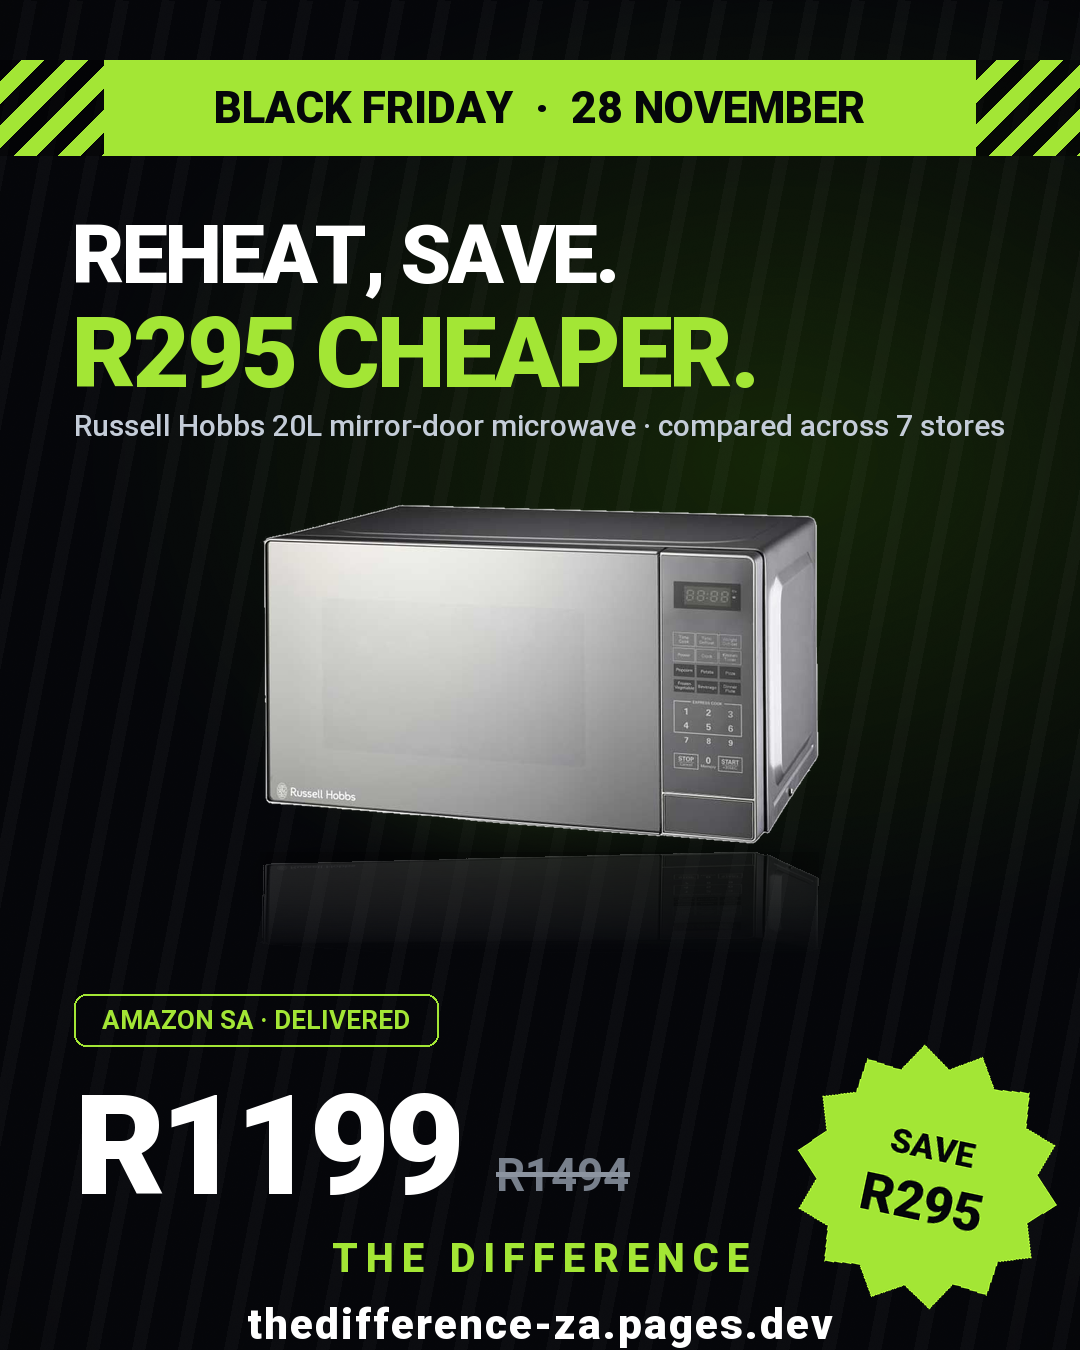
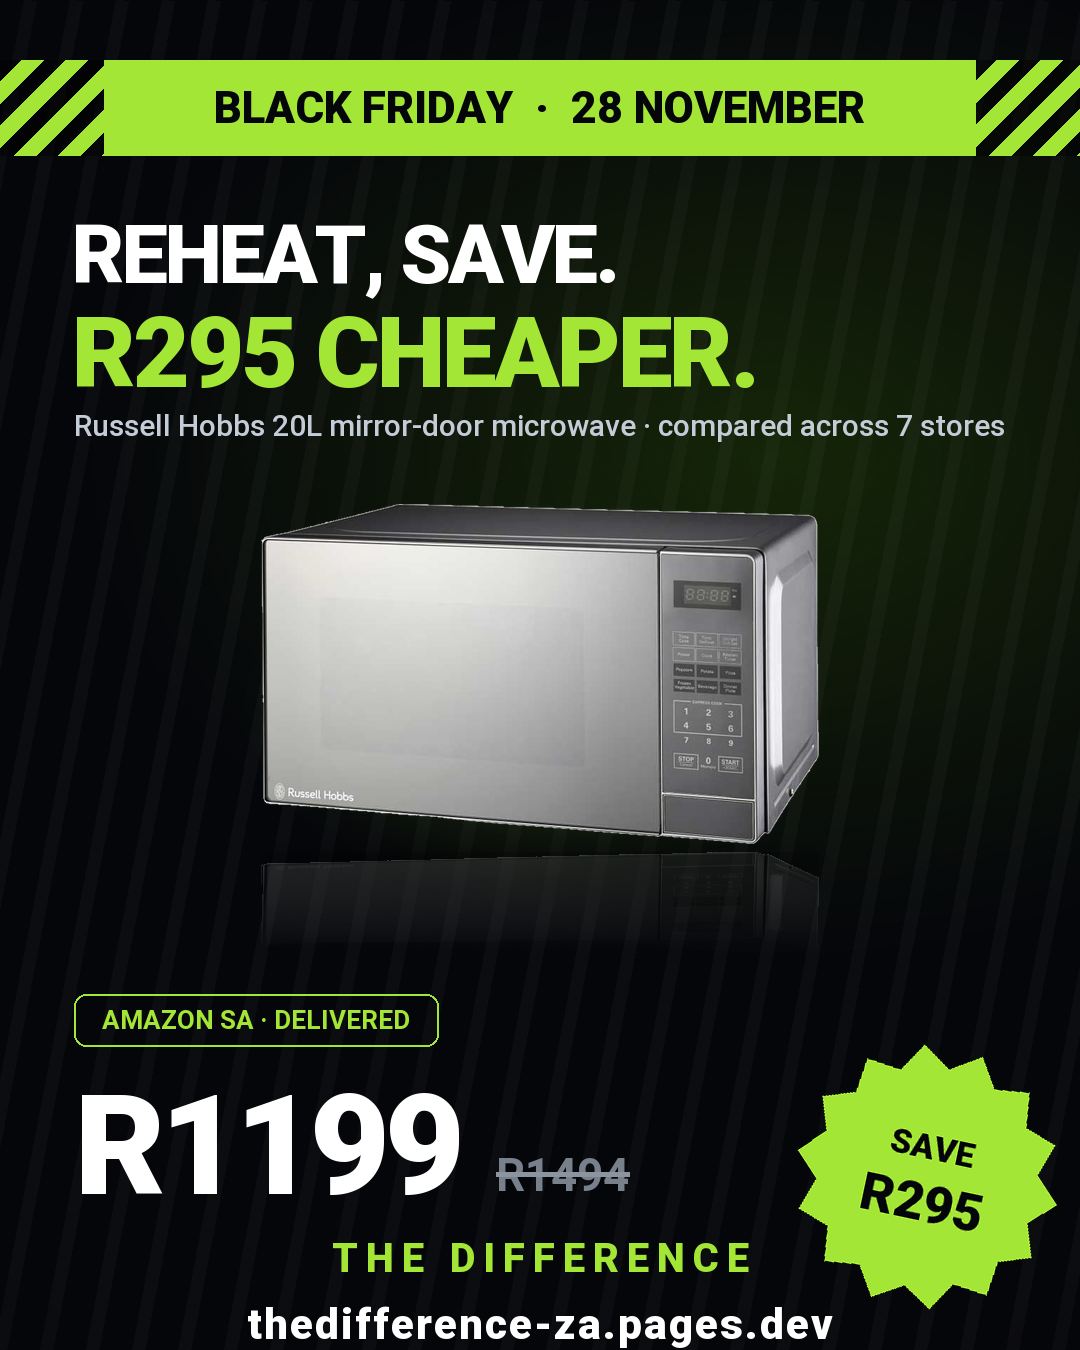
promo: defringe packshots so products sit clean on the dark poster stage (no white background-removal halo)

diff --git a/scripts/make_bf_posters.py b/scripts/make_bf_posters.py
@@ -13,6 +13,7 @@ Design system — modern Black Friday retail creative:
 import os
 import random
 import math
+import numpy as np
 from PIL import Image, ImageDraw, ImageFont, ImageFilter
 
 ROOT = os.path.dirname(os.path.dirname(os.path.abspath(__file__)))
@@ -139,9 +140,20 @@ def starburst(save="SAVE\nR4 095", size=340):
     return img.rotate(-12, expand=True, resample=Image.BICUBIC)
 
 
+def defringe(im):
+    """Remove the white fringe left by background removal on dark posters."""
+    arr = np.asarray(im).astype(np.float32)
+    rgb, a = arr[..., :3], arr[..., 3:] / 255.0
+    un = (rgb - (1.0 - a) * 255.0) / np.clip(a, 0.02, 1.0)
+    un = np.clip(un, 0, 255)
+    alpha = np.where(a < 0.55, 0.0, np.clip((a - 0.55) / 0.35, 0, 1))
+    out = np.dstack([un, alpha * 255]).astype(np.uint8)
+    return Image.fromarray(out, "RGBA")
+
+
 def product_hero(path, max_w, max_h):
     """Packshot with acid glow, floor shadow and reflection."""
-    im = Image.open(path).convert("RGBA")
+    im = defringe(Image.open(path).convert("RGBA"))
     bbox = im.getbbox()
     if bbox:
         im = im.crop(bbox)
